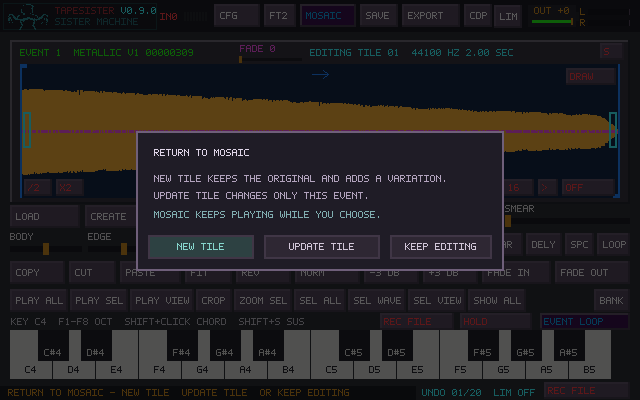
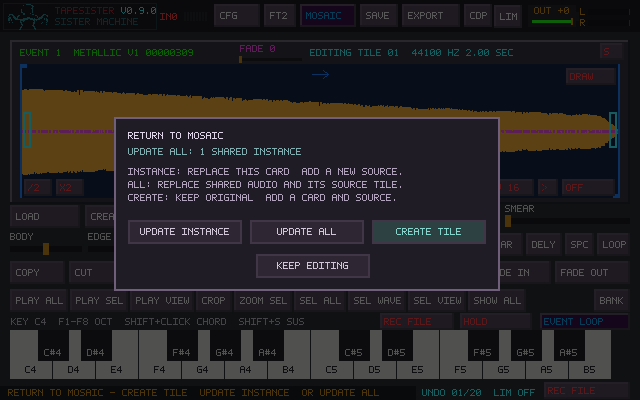
Add explicit Mosaic instance, shared-source and new-tile edit choices

Changed region(s): [[0.1562, 0.27, 0.8125, 0.75], [0.1875, 0.96, 0.5938, 0.99], [0.7812, 0.45, 0.8125, 0.48]]

diff --git a/docs/MOSAIC.md b/docs/MOSAIC.md
@@ -193,23 +193,32 @@ retriggering the sound. Each note can finish at a different time.
 
 **MOSAIC** returns to the arrangement. Event voices keep playing while the main
 editor, CDP Portal or Sister window is open. Sample editing uses the event's
-own document. Copies share immutable source audio until an actual sample edit
-creates a new version for that event. The original Sample bank stays intact.
+own document. Copies share source audio; on leaving, choose whether the edited
+sound belongs to this instance, all instances using that source, or a new card.
 Make as many drawing or processing edits as you like, including Warp, Smear
 and CDP. The working waveform stays in this event's editor. The destination
 prompt appears **once when returning to Mosaic**, only if its audio has changed:
 
-- **NEW TILE** (Enter or N) keeps the original event and places a new event
+- **CREATE TILE** (Enter or N) keeps the original event and places a new event
   beside it with all the accumulated audio edits. It also places a reusable snapshot
   into a free regular Sample-bank tile, adding a bank if needed. The arrangement
   scrolls to reveal the new event and Sources highlights its bank tile; the status
   names the bank and slot. The main editor's previous selection stays intact.
-- **UPDATE TILE** (U) replaces only this event's audio, then returns to Mosaic and
-  highlights its current source. Existing bank snapshots remain independent.
+- **UPDATE INSTANCE** (U) replaces this card's audio without adding another card.
+  It creates a reusable source in a free regular Sample-bank tile, adding a bank
+  if needed. Other cards and the original source retain their sound.
+- **UPDATE ALL** (A) replaces every card using the same source and updates its
+  matching Sample-bank tiles in place, across all bank pages. The dialog shows
+  the number of affected cards. Notes, timing, loop mode, tuning, level, pan and
+  fades stay individual; source regions scale proportionally if the new audio
+  length changes. The edited card takes its working region/tuning. Custom names
+  on other cards remain intact. A legacy source without a regular bank tile gets
+  one. A locked matching bank tile prevents the update before anything changes.
 - **KEEP EDITING** (Escape) closes the question and retains all working edits.
 
-An occupied or protected bank tile is never overwritten by NEW TILE. Arrangement
-Undo can remove the new event while its reusable bank snapshot remains available.
+CREATE TILE and UPDATE INSTANCE use free bank slots. Arrangement Undo restores
+the cards together; published Sample-bank sounds remain available, including
+the source replaced by UPDATE ALL. Bank publication is not part of arrangement Undo.
 If a new bank snapshot cannot be stored, the working edit stays open for another choice.
 
 Undoing all audio edits removes the question. Opening an event and leaving it
@@ -283,7 +292,7 @@ processing simultaneously. DISTSHIFT and further CDP expansion are unchanged.
 
 ## Performance update acceptance
 
-- Smear an event and choose NEW TILE with enough overlapping cards to fill the view.
+- Smear an event and choose CREATE TILE with enough overlapping cards to fill the view.
   Confirm the new waveform is revealed, selected and present in the regular Sample
   banks. Save/reopen and audition the bank tile and event.
 - Solo a card and scroll it offscreen. Check CLEAR SOLO and the other cards' SOLO OUT
@@ -299,9 +308,9 @@ processing simultaneously. DISTSHIFT and further CDP expansion are unchanged.
   confirm that spacing changes do not move their start times unintentionally.
 - On a long loop choose C4, E4 and C5. Listen for independent repeating gestures;
   extend the event while it plays and check that the phases continue.
-- Open the other copy, set EVENT ONCE and make several audio edits. Return to Mosaic and choose NEW TILE,
-  UPDATE TILE and KEEP EDITING on separate attempts; check that siblings and the
-  original source bank retain their sound in every case.
+- Open a copy, set EVENT ONCE and make audio edits. Try CREATE TILE, UPDATE INSTANCE,
+  UPDATE ALL and KEEP EDITING separately; verify the stated card/source scope and
+  that UPDATE ALL preserves each card's timing, notes and mix settings.
 - Create a new full bank from FM while the welcome sample remains on the first
   bank. Browse both banks in Mosaic and place a sample from each; confirm that
   the main editor stays on its original active bank.

diff --git a/docs/USER_MANUAL.md b/docs/USER_MANUAL.md
@@ -586,12 +586,14 @@ Sources browses every Sample bank, including pages made in FM Logic or the main
 canvas. **BANK 01**, **BANK 02**, and later banks keep their original numbers and
 16 slot positions, including empty slots. The arrows below Sources move through
 these banks and then **EVENTS** pages containing audio versions used by placed events.
-An accepted event audio edit receives its own waveform preview there. **NEW TILE**
-also saves a reusable copy in a free regular Sample-bank slot, creating a bank when
-needed. It reveals the new event, highlights its source and names the bank/slot in
-status. Existing sounds and the main editor's selection remain intact. **UPDATE TILE**
-continues to change only the event. Arrangement Undo leaves reusable bank copies
-available.
+**CREATE TILE** adds a card beside the original and a reusable source in a free
+Sample-bank slot. **UPDATE INSTANCE** replaces just the current card and adds its
+edited source to a free Sample-bank slot. Both create a bank when needed.
+**UPDATE ALL** changes every card sharing the source and replaces matching source
+tiles across the Sample banks. It preserves each card's timing, notes and mix
+settings; custom source regions scale when the audio length changes. The main
+editor keeps its selected bank/slot. Arrangement Undo restores the cards; bank
+publication remains in place.
 
 Browsing Sources does not change the main editor's active bank or Sister's routing.
 Returning from FM shows its active bank with the correct bank number; the original
@@ -682,11 +684,12 @@ When you return to Mosaic after changing the audio, one destination question app
 
 | Choice | Result |
 | --- | --- |
-| **NEW TILE** — Enter or N | Keep the original, reveal the edited event, and store a regular Sample-bank copy |
-| **UPDATE TILE** — U | Replace only this event's audio |
+| **CREATE TILE** — Enter or N | Keep the original; add a new card and a regular Sample-bank source |
+| **UPDATE INSTANCE** — U | Replace this card; add a new source, leaving siblings and the original source alone |
+| **UPDATE ALL** — A | Replace all cards sharing the sound and update matching Sample-bank source tiles |
 | **KEEP EDITING** — Escape | Keep the working edits open without publishing them |
 
-![Choosing new tile or update tile after editing](images/mosaic-edit-choice.png)
+![Choosing the scope of an audio edit](images/mosaic-edit-choice.png)
 
 The question appears on leaving the editor, not after every processing operation.
 Leaving an unchanged event, or undoing all audio changes, needs no question. Saving,

diff --git a/docs/QUICK_REFERENCE.md b/docs/QUICK_REFERENCE.md
@@ -65,8 +65,9 @@ Double-click to edit; audio changes accumulate until returning to Mosaic:
 
 | Exit choice | Result |
 | --- | --- |
-| NEW TILE — Enter or N | Keep original, reveal edited event and store a regular Sample-bank copy |
-| UPDATE TILE — U | Update only this event |
+| CREATE TILE — Enter or N | Keep original; add a card and a regular Sample-bank source |
+| UPDATE INSTANCE — U | Replace this card and add a new source |
+| UPDATE ALL — A | Replace all cards using this source and update matching Sample-bank tiles |
 | KEEP EDITING — Escape | Continue working without publishing the audio |
 
 Speed changes pitch and arrangement timing together. Its wheel moves by semitones;
